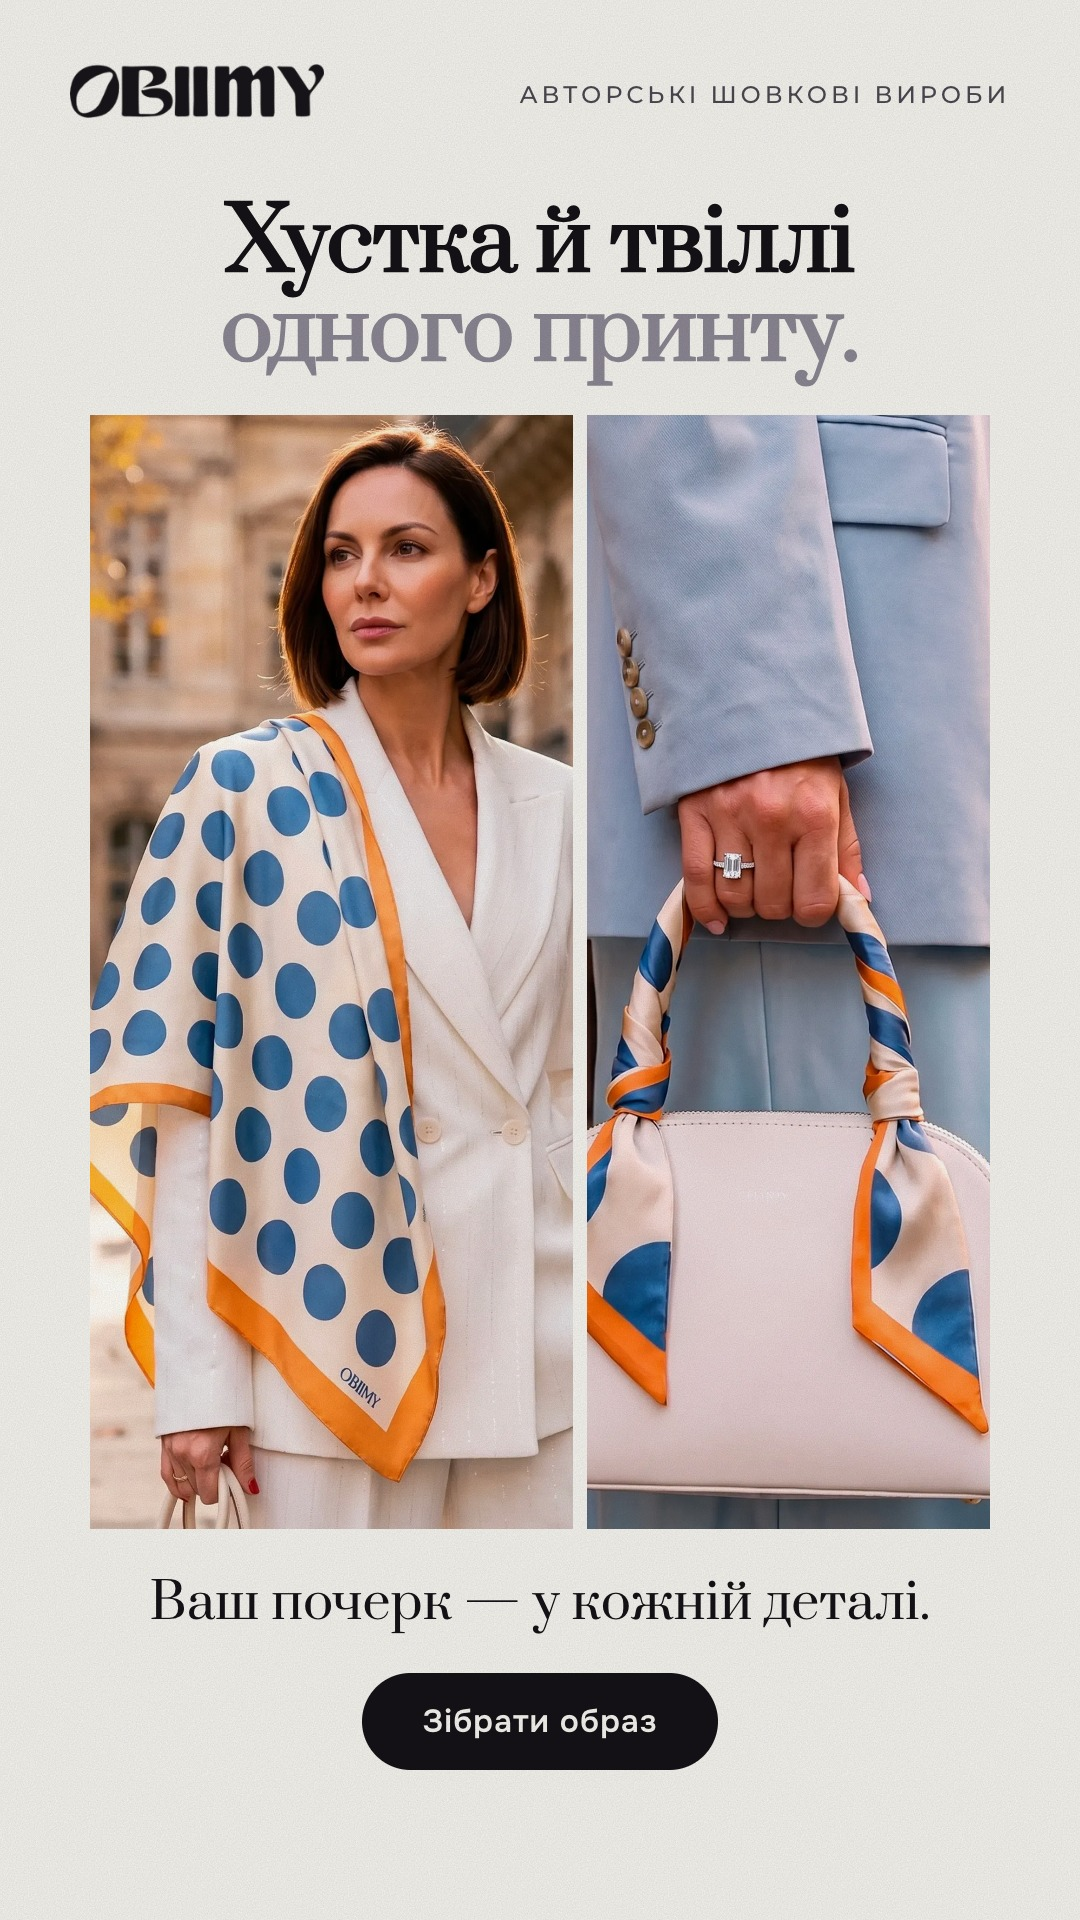
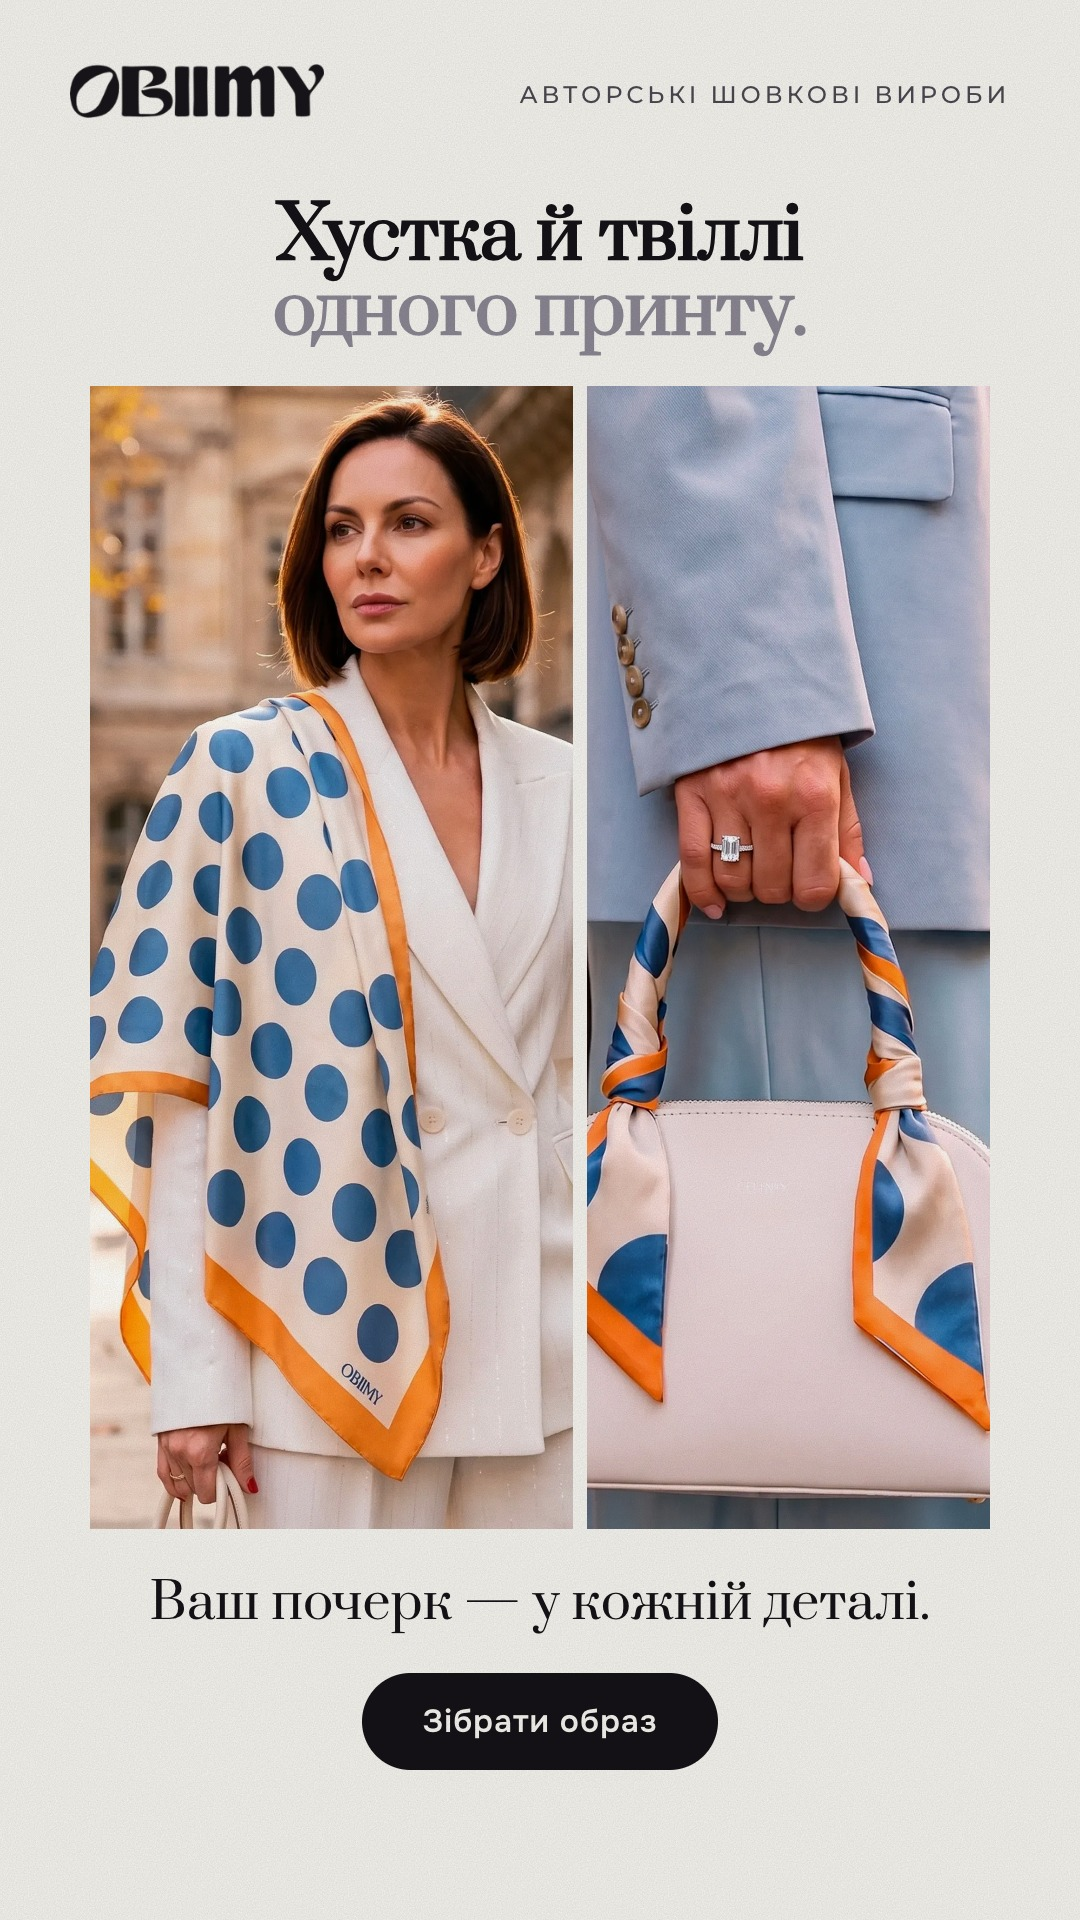
c18, c23: smaller headline; gallery on a graphite background

Changed region(s): [[0.0611, 0.0938, 0.9167, 0.7812], [0.1222, 0.7188, 0.2444, 0.8125]]

diff --git a/site/creatives.html b/site/creatives.html
@@ -5,8 +5,8 @@
 <link rel="stylesheet" href="https://fonts.googleapis.com/css2?family=Playfair+Display:ital,wght@0,700;1,900&family=Onest:wght@400;500;600&display=swap">
 <style>
 :root { --bg: #F3EADB; --card: #FBF6EC; --ink: #1B1613; --ink2: #5A5048; --line: rgba(27,22,19,.14); --acc: #7B1F24; }
-@media (prefers-color-scheme: dark) { :root:not([data-theme="light"]) { --bg: #151210; --card: #1F1B18; --ink: #F3EADB; --ink2: #B9AEA3; --line: rgba(243,234,219,.14); --acc: #E3A15A; } }
-:root[data-theme="dark"] { --bg: #151210; --card: #1F1B18; --ink: #F3EADB; --ink2: #B9AEA3; --line: rgba(243,234,219,.14); --acc: #E3A15A; }
+@media (prefers-color-scheme: dark) { :root:not([data-theme="light"]) { --bg: #2B2B2F; --card: #36363B; --ink: #F3EADB; --ink2: #B9AEA3; --line: rgba(243,234,219,.14); --acc: #E3A15A; } }
+:root[data-theme="dark"] { --bg: #2B2B2F; --card: #36363B; --ink: #F3EADB; --ink2: #B9AEA3; --line: rgba(243,234,219,.14); --acc: #E3A15A; }
 * { box-sizing: border-box; }
 body { margin: 0; background: var(--bg); color: var(--ink); font-family: 'Onest', Arial, sans-serif; }
 .wrap { max-width: 1320px; margin: 0 auto; padding: 32px 24px 80px; }
@@ -109,9 +109,9 @@ footer { margin-top: 72px; color: var(--ink2); font-size: .85rem; border-top: 1p
         <figcaption><label class="pick"><input type="checkbox" data-id="solo-main/c05-zolote.jpg"><span>Залишити</span></label><span class="fid">c05</span><a href="creatives/solo-main/c05-zolote.jpg?v=4241e29b" download="c05-zolote.jpg">JPG ↓</a></figcaption></figure><figure class="c st" data-f="st" data-id="solo-main/c06-avantiura.jpg"><a href="creatives/solo-main/c06-avantiura.jpg?v=594d1430" target="_blank" rel="noopener"><img src="creatives/solo-main/c06-avantiura-540.webp?v=594d1430" alt="Варіант A · повноекранні" loading="lazy" width="540" height="960"></a>
         <figcaption><label class="pick"><input type="checkbox" data-id="solo-main/c06-avantiura.jpg"><span>Залишити</span></label><span class="fid">c06</span><a href="creatives/solo-main/c06-avantiura.jpg?v=594d1430" download="c06-avantiura.jpg">JPG ↓</a></figcaption></figure><figure class="c st" data-f="st" data-id="solo-main/c09-ya-ie.jpg"><a href="creatives/solo-main/c09-ya-ie.jpg?v=913987ce" target="_blank" rel="noopener"><img src="creatives/solo-main/c09-ya-ie-540.webp?v=913987ce" alt="Варіант A · повноекранні" loading="lazy" width="540" height="960"></a>
         <figcaption><label class="pick"><input type="checkbox" data-id="solo-main/c09-ya-ie.jpg"><span>Залишити</span></label><span class="fid">c09</span><a href="creatives/solo-main/c09-ya-ie.jpg?v=913987ce" download="c09-ya-ie.jpg">JPG ↓</a></figcaption></figure><figure class="c st" data-f="st" data-id="solo-main/c10-grey.jpg"><a href="creatives/solo-main/c10-grey.jpg?v=6d2e58c5" target="_blank" rel="noopener"><img src="creatives/solo-main/c10-grey-540.webp?v=6d2e58c5" alt="Варіант A · повноекранні" loading="lazy" width="540" height="960"></a>
-        <figcaption><label class="pick"><input type="checkbox" data-id="solo-main/c10-grey.jpg"><span>Залишити</span></label><span class="fid">c10</span><a href="creatives/solo-main/c10-grey.jpg?v=6d2e58c5" download="c10-grey.jpg">JPG ↓</a></figcaption></figure><figure class="c st" data-f="st" data-id="solo-main/c18-look.jpg"><a href="creatives/solo-main/c18-look.jpg?v=ffa026c6" target="_blank" rel="noopener"><img src="creatives/solo-main/c18-look-540.webp?v=ffa026c6" alt="Варіант A · товарні" loading="lazy" width="540" height="960"></a>
-        <figcaption><label class="pick"><input type="checkbox" data-id="solo-main/c18-look.jpg"><span>Залишити</span></label><span class="fid">c18</span><a href="creatives/solo-main/c18-look.jpg?v=ffa026c6" download="c18-look.jpg">JPG ↓</a></figcaption></figure><figure class="c st" data-f="st" data-id="solo-main/c23-look-dark.jpg"><a href="creatives/solo-main/c23-look-dark.jpg?v=5a7dbee4" target="_blank" rel="noopener"><img src="creatives/solo-main/c23-look-dark-540.webp?v=5a7dbee4" alt="Варіант A · товарні" loading="lazy" width="540" height="960"></a>
-        <figcaption><label class="pick"><input type="checkbox" data-id="solo-main/c23-look-dark.jpg"><span>Залишити</span></label><span class="fid">c23</span><a href="creatives/solo-main/c23-look-dark.jpg?v=5a7dbee4" download="c23-look-dark.jpg">JPG ↓</a></figcaption></figure><figure class="c st" data-f="st" data-id="final2/obiimy-12-paris-chervonyi-shovk-1080x1920.jpg"><a href="creatives/final2/obiimy-12-paris-chervonyi-shovk-1080x1920.jpg?v=db0148a4" target="_blank" rel="noopener"><img src="creatives/final2/obiimy-12-paris-chervonyi-shovk-1080x1920-540.webp?v=db0148a4" alt="Серія 2 · Париж і Рив’єра" loading="lazy" width="540" height="960"></a>
+        <figcaption><label class="pick"><input type="checkbox" data-id="solo-main/c10-grey.jpg"><span>Залишити</span></label><span class="fid">c10</span><a href="creatives/solo-main/c10-grey.jpg?v=6d2e58c5" download="c10-grey.jpg">JPG ↓</a></figcaption></figure><figure class="c st" data-f="st" data-id="solo-main/c18-look.jpg"><a href="creatives/solo-main/c18-look.jpg?v=959ab34e" target="_blank" rel="noopener"><img src="creatives/solo-main/c18-look-540.webp?v=959ab34e" alt="Варіант A · товарні" loading="lazy" width="540" height="960"></a>
+        <figcaption><label class="pick"><input type="checkbox" data-id="solo-main/c18-look.jpg"><span>Залишити</span></label><span class="fid">c18</span><a href="creatives/solo-main/c18-look.jpg?v=959ab34e" download="c18-look.jpg">JPG ↓</a></figcaption></figure><figure class="c st" data-f="st" data-id="solo-main/c23-look-dark.jpg"><a href="creatives/solo-main/c23-look-dark.jpg?v=664bd249" target="_blank" rel="noopener"><img src="creatives/solo-main/c23-look-dark-540.webp?v=664bd249" alt="Варіант A · товарні" loading="lazy" width="540" height="960"></a>
+        <figcaption><label class="pick"><input type="checkbox" data-id="solo-main/c23-look-dark.jpg"><span>Залишити</span></label><span class="fid">c23</span><a href="creatives/solo-main/c23-look-dark.jpg?v=664bd249" download="c23-look-dark.jpg">JPG ↓</a></figcaption></figure><figure class="c st" data-f="st" data-id="final2/obiimy-12-paris-chervonyi-shovk-1080x1920.jpg"><a href="creatives/final2/obiimy-12-paris-chervonyi-shovk-1080x1920.jpg?v=db0148a4" target="_blank" rel="noopener"><img src="creatives/final2/obiimy-12-paris-chervonyi-shovk-1080x1920-540.webp?v=db0148a4" alt="Серія 2 · Париж і Рив’єра" loading="lazy" width="540" height="960"></a>
         <figcaption><label class="pick"><input type="checkbox" data-id="final2/obiimy-12-paris-chervonyi-shovk-1080x1920.jpg"><span>Залишити</span></label><span class="fid">obiimy</span><a href="creatives/final2/obiimy-12-paris-chervonyi-shovk-1080x1920.jpg?v=db0148a4" download="obiimy-12-paris-chervonyi-shovk-1080x1920.jpg">JPG ↓</a></figcaption></figure><figure class="c st" data-f="st" data-id="final2/obiimy-13-paris-shal-1080x1920.jpg"><a href="creatives/final2/obiimy-13-paris-shal-1080x1920.jpg?v=51ed99b8" target="_blank" rel="noopener"><img src="creatives/final2/obiimy-13-paris-shal-1080x1920-540.webp?v=51ed99b8" alt="Серія 2 · Париж і Рив’єра" loading="lazy" width="540" height="960"></a>
         <figcaption><label class="pick"><input type="checkbox" data-id="final2/obiimy-13-paris-shal-1080x1920.jpg"><span>Залишити</span></label><span class="fid">obiimy</span><a href="creatives/final2/obiimy-13-paris-shal-1080x1920.jpg?v=51ed99b8" download="obiimy-13-paris-shal-1080x1920.jpg">JPG ↓</a></figcaption></figure><figure class="c st" data-f="st" data-id="final2/obiimy-20-solo-rivera-1080x1920.jpg"><a href="creatives/final2/obiimy-20-solo-rivera-1080x1920.jpg?v=9ee93e36" target="_blank" rel="noopener"><img src="creatives/final2/obiimy-20-solo-rivera-1080x1920-540.webp?v=9ee93e36" alt="Серія 2 · Париж і Рив’єра" loading="lazy" width="540" height="960"></a>
         <figcaption><label class="pick"><input type="checkbox" data-id="final2/obiimy-20-solo-rivera-1080x1920.jpg"><span>Залишити</span></label><span class="fid">obiimy</span><a href="creatives/final2/obiimy-20-solo-rivera-1080x1920.jpg?v=9ee93e36" download="obiimy-20-solo-rivera-1080x1920.jpg">JPG ↓</a></figcaption></figure></div></section>

diff --git a/ads/solo/solo4.html b/ads/solo/solo4.html
@@ -313,7 +313,7 @@ body { margin: 0; background: #666; font-family: 'Onest', 'Helvetica Neue', Aria
   <p style="right:70px;top:80px;font-family:Montserrat,sans-serif;font-size:26px;font-weight:500;letter-spacing:.16em;text-transform:uppercase;white-space:nowrap;font-size:24px;color:var(--ink-2)">Авторські шовкові вироби</p>
   <div style="left:70px;right:70px;top:80px;bottom:150px;display:flex;flex-direction:column;align-items:center;text-align:center">
     <div style="height:60px"></div>
-    <h1 class="h" style="position:static;margin-top:60px;font-size:86px">Хустка й твіллі<br><em>одного принту.</em></h1>
+    <h1 class="h" style="position:static;margin-top:60px;font-size:72px">Хустка й твіллі<br><em>одного принту.</em></h1>
     <div style="flex:1;min-height:0;align-self:stretch;margin-top:36px;position:relative"><div style="position:absolute;inset:0 20px;display:grid;grid-template-columns:1.2fr 1fr;gap:14px">
     <div class="photo"><img src="src/iskra-65-2-2k.webp" alt="" style="object-position:40% 35%"></div><div class="photo"><img src="src/iskra-tw-3-2k.webp" alt="" style="object-position:50% 60%"></div></div></div>
     <p style="position:static;margin-top:44px;max-width:860px;font-family:Prata,serif;font-size:50px;line-height:1.2;color:var(--ink);text-wrap:balance">Ваш почерк — у кожній деталі.</p>
@@ -328,7 +328,7 @@ body { margin: 0; background: #666; font-family: 'Onest', 'Helvetica Neue', Aria
   <p style="right:70px;top:80px;font-family:Montserrat,sans-serif;font-size:26px;font-weight:500;letter-spacing:.16em;text-transform:uppercase;white-space:nowrap;font-size:24px;color:rgba(244,242,237,.85)">Авторські шовкові вироби</p>
   <div style="left:70px;right:70px;top:80px;bottom:150px;display:flex;flex-direction:column;align-items:center;text-align:center">
     <div style="height:60px"></div>
-    <h1 class="h" style="position:static;margin-top:60px;font-size:86px">Хустка й твіллі<br><em style="color:#E9D7A6">одного принту.</em></h1>
+    <h1 class="h" style="position:static;margin-top:60px;font-size:72px">Хустка й твіллі<br><em style="color:#E9D7A6">одного принту.</em></h1>
     <div style="flex:1;min-height:0;align-self:stretch;margin-top:36px;position:relative"><div style="position:absolute;inset:0 20px;display:grid;grid-template-columns:1.2fr 1fr;gap:14px">
     <div class="photo"><img src="src/iskra-65-2-2k.webp" alt="" style="object-position:40% 35%"></div><div class="photo"><img src="src/iskra-tw-3-2k.webp" alt="" style="object-position:50% 60%"></div></div></div>
     <p style="position:static;margin-top:44px;max-width:860px;font-family:Prata,serif;font-size:50px;line-height:1.2;color:#F4F2ED;text-wrap:balance">Ваш почерк — у кожній деталі.</p>

diff --git a/site/creatives-archive.html b/site/creatives-archive.html
@@ -5,8 +5,8 @@
 <link rel="stylesheet" href="https://fonts.googleapis.com/css2?family=Playfair+Display:ital,wght@0,700;1,900&family=Onest:wght@400;500;600&display=swap">
 <style>
 :root { --bg: #F3EADB; --card: #FBF6EC; --ink: #1B1613; --ink2: #5A5048; --line: rgba(27,22,19,.14); --acc: #7B1F24; }
-@media (prefers-color-scheme: dark) { :root:not([data-theme="light"]) { --bg: #151210; --card: #1F1B18; --ink: #F3EADB; --ink2: #B9AEA3; --line: rgba(243,234,219,.14); --acc: #E3A15A; } }
-:root[data-theme="dark"] { --bg: #151210; --card: #1F1B18; --ink: #F3EADB; --ink2: #B9AEA3; --line: rgba(243,234,219,.14); --acc: #E3A15A; }
+@media (prefers-color-scheme: dark) { :root:not([data-theme="light"]) { --bg: #2B2B2F; --card: #36363B; --ink: #F3EADB; --ink2: #B9AEA3; --line: rgba(243,234,219,.14); --acc: #E3A15A; } }
+:root[data-theme="dark"] { --bg: #2B2B2F; --card: #36363B; --ink: #F3EADB; --ink2: #B9AEA3; --line: rgba(243,234,219,.14); --acc: #E3A15A; }
 * { box-sizing: border-box; }
 body { margin: 0; background: var(--bg); color: var(--ink); font-family: 'Onest', Arial, sans-serif; }
 .wrap { max-width: 1320px; margin: 0 auto; padding: 32px 24px 80px; }

diff --git a/ads/build_gallery.py b/ads/build_gallery.py
@@ -147,8 +147,8 @@ def build(site: pathlib.Path):
 <link rel="stylesheet" href="https://fonts.googleapis.com/css2?family=Playfair+Display:ital,wght@0,700;1,900&family=Onest:wght@400;500;600&display=swap">
 <style>
 :root {{ --bg: #F3EADB; --card: #FBF6EC; --ink: #1B1613; --ink2: #5A5048; --line: rgba(27,22,19,.14); --acc: #7B1F24; }}
-@media (prefers-color-scheme: dark) {{ :root:not([data-theme="light"]) {{ --bg: #151210; --card: #1F1B18; --ink: #F3EADB; --ink2: #B9AEA3; --line: rgba(243,234,219,.14); --acc: #E3A15A; }} }}
-:root[data-theme="dark"] {{ --bg: #151210; --card: #1F1B18; --ink: #F3EADB; --ink2: #B9AEA3; --line: rgba(243,234,219,.14); --acc: #E3A15A; }}
+@media (prefers-color-scheme: dark) {{ :root:not([data-theme="light"]) {{ --bg: #2B2B2F; --card: #36363B; --ink: #F3EADB; --ink2: #B9AEA3; --line: rgba(243,234,219,.14); --acc: #E3A15A; }} }}
+:root[data-theme="dark"] {{ --bg: #2B2B2F; --card: #36363B; --ink: #F3EADB; --ink2: #B9AEA3; --line: rgba(243,234,219,.14); --acc: #E3A15A; }}
 * {{ box-sizing: border-box; }}
 body {{ margin: 0; background: var(--bg); color: var(--ink); font-family: 'Onest', Arial, sans-serif; }}
 .wrap {{ max-width: 1320px; margin: 0 auto; padding: 32px 24px 80px; }}
